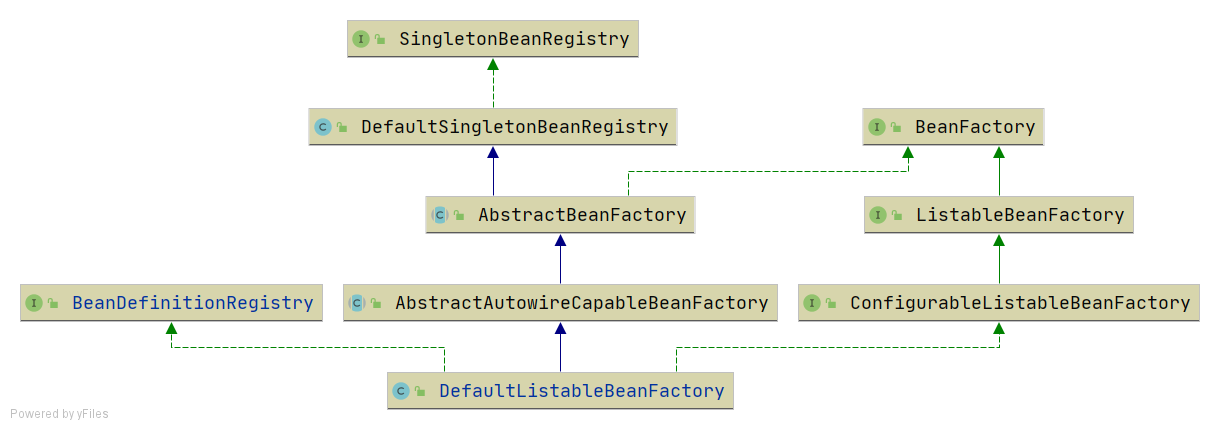
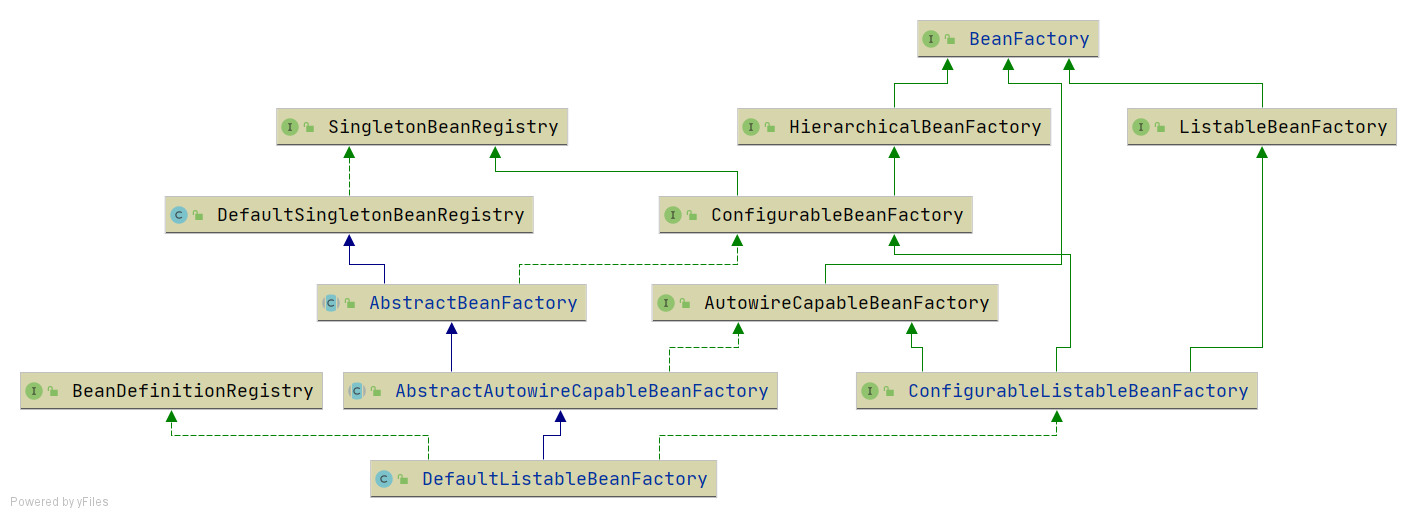
xml文件定义bean

diff --git a/src/main/java/org/springframework/beans/factory/support/AbstractBeanFactory.java b/src/main/java/org/springframework/beans/factory/support/AbstractBeanFactory.java
@@ -1,14 +1,14 @@
 package org.springframework.beans.factory.support;
 
 import org.springframework.beans.BeansException;
-import org.springframework.beans.factory.BeanFactory;
 import org.springframework.beans.factory.config.BeanDefinition;
+import org.springframework.beans.factory.config.ConfigurableBeanFactory;
 
 /**
  * @author derekyi
  * @date 2020/11/22
  */
-public abstract class AbstractBeanFactory extends DefaultSingletonBeanRegistry implements BeanFactory {
+public abstract class AbstractBeanFactory extends DefaultSingletonBeanRegistry implements ConfigurableBeanFactory {
 
 	@Override
 	public Object getBean(String name) throws BeansException {
@@ -19,6 +19,11 @@ public abstract class AbstractBeanFactory extends DefaultSingletonBeanRegistry i
 
 		BeanDefinition beanDefinition = getBeanDefinition(name);
 		return createBean(name, beanDefinition);
+	}
+
+	@Override
+	public <T> T getBean(String name, Class<T> requiredType) throws BeansException {
+		return ((T) getBean(name));
 	}
 
 	protected abstract Object createBean(String beanName, BeanDefinition beanDefinition) throws BeansException;

diff --git a/src/main/java/org/springframework/beans/factory/ConfigurableListableBeanFactory.java b/src/main/java/org/springframework/beans/factory/ConfigurableListableBeanFactory.java
@@ -1,13 +1,15 @@
 package org.springframework.beans.factory;
 
 import org.springframework.beans.BeansException;
+import org.springframework.beans.factory.config.AutowireCapableBeanFactory;
 import org.springframework.beans.factory.config.BeanDefinition;
+import org.springframework.beans.factory.config.ConfigurableBeanFactory;
 
 /**
  * @author derekyi
  * @date 2020/11/28
  */
-public interface ConfigurableListableBeanFactory extends ListableBeanFactory {
+public interface ConfigurableListableBeanFactory extends ListableBeanFactory, AutowireCapableBeanFactory, ConfigurableBeanFactory {
 
 	/**
 	 * 根据名称查找BeanDefinition
@@ -18,10 +20,4 @@ public interface ConfigurableListableBeanFactory extends ListableBeanFactory {
 	 */
 	BeanDefinition getBeanDefinition(String beanName) throws BeansException;
 
-	/**
-	 * 提前实例化所有单例实例
-	 *
-	 * @throws BeansException
-	 */
-	void preInstantiateSingletons() throws BeansException;
 }

diff --git a/src/main/java/org/springframework/beans/factory/support/AbstractAutowireCapableBeanFactory.java b/src/main/java/org/springframework/beans/factory/support/AbstractAutowireCapableBeanFactory.java
@@ -3,6 +3,7 @@ package org.springframework.beans.factory.support;
 import cn.hutool.core.bean.BeanUtil;
 import org.springframework.beans.BeansException;
 import org.springframework.beans.PropertyValue;
+import org.springframework.beans.factory.config.AutowireCapableBeanFactory;
 import org.springframework.beans.factory.config.BeanDefinition;
 import org.springframework.beans.factory.config.BeanReference;
 
@@ -10,7 +11,8 @@ import org.springframework.beans.factory.config.BeanReference;
  * @author derekyi
  * @date 2020/11/22
  */
-public abstract class AbstractAutowireCapableBeanFactory extends AbstractBeanFactory {
+public abstract class AbstractAutowireCapableBeanFactory extends AbstractBeanFactory
+		implements AutowireCapableBeanFactory {
 
 	private InstantiationStrategy instantiationStrategy = new SimpleInstantiationStrategy();
 

diff --git a/src/main/java/org/springframework/beans/factory/BeanFactory.java b/src/main/java/org/springframework/beans/factory/BeanFactory.java
@@ -18,4 +18,15 @@ public interface BeanFactory {
 	 * @throws BeansException bean不存在时
 	 */
 	Object getBean(String name) throws BeansException;
+
+	/**
+	 * 根据名称和类型查找bean
+	 *
+	 * @param name
+	 * @param requiredType
+	 * @param <T>
+	 * @return
+	 * @throws BeansException
+	 */
+	<T> T getBean(String name, Class<T> requiredType) throws BeansException;
 }

diff --git a/src/main/java/org/springframework/beans/factory/support/DefaultListableBeanFactory.java b/src/main/java/org/springframework/beans/factory/support/DefaultListableBeanFactory.java
@@ -55,9 +55,4 @@ public class DefaultListableBeanFactory extends AbstractAutowireCapableBeanFacto
 		Set<String> beanNames = beanDefinitionMap.keySet();
 		return beanNames.toArray(new String[beanNames.size()]);
 	}
-
-	@Override
-	public void preInstantiateSingletons() throws BeansException {
-		beanDefinitionMap.keySet().forEach(this::getBean);
-	}
 }

diff --git a/src/main/java/org/springframework/beans/factory/config/ConfigurableBeanFactory.java b/src/main/java/org/springframework/beans/factory/config/ConfigurableBeanFactory.java
@@ -1,0 +1,11 @@
+package org.springframework.beans.factory.config;
+
+import org.springframework.beans.factory.HierarchicalBeanFactory;
+
+/**
+ * @author derekyi
+ * @date 2020/11/28
+ */
+public interface ConfigurableBeanFactory extends HierarchicalBeanFactory, SingletonBeanRegistry {
+
+}

diff --git a/src/main/java/org/springframework/beans/factory/config/AutowireCapableBeanFactory.java b/src/main/java/org/springframework/beans/factory/config/AutowireCapableBeanFactory.java
@@ -1,0 +1,11 @@
+package org.springframework.beans.factory.config;
+
+import org.springframework.beans.factory.BeanFactory;
+
+/**
+ * @author derekyi
+ * @date 2020/11/28
+ */
+public interface AutowireCapableBeanFactory extends BeanFactory {
+
+}

diff --git a/src/main/java/org/springframework/beans/factory/HierarchicalBeanFactory.java b/src/main/java/org/springframework/beans/factory/HierarchicalBeanFactory.java
@@ -1,0 +1,8 @@
+package org.springframework.beans.factory;
+
+/**
+ * @author derekyi
+ * @date 2020/11/28
+ */
+public interface HierarchicalBeanFactory extends BeanFactory {
+}

diff --git a/changelog.md b/changelog.md
@@ -231,7 +231,7 @@ BeanDefinitionReader是读取bean定义信息的抽象接口，XmlBeanDefinition
 
 由于从xml文件中读取的内容是String类型，所以属性仅支持String类型和引用其他Bean。后面会讲到属性编辑器PropertyEditor，实现类型转换。
 
-为了方便后面的讲解和功能实现，并且尽量保持和spring中BeanFactory的继承层次一致，对BeanFactory的继承层次稍微做了调整，增加了接口ConfigurableListableBeanFactory和ListableBeanFactory和对应的方法，方法在DefaultListableBeanFactory中实现。
+为了方便后面的讲解和功能实现，并且尽量保持和spring中BeanFactory的继承层次一致，对BeanFactory的继承层次稍微做了调整。
 
 ![](./assets/xml-file-define-bean.png)
 
